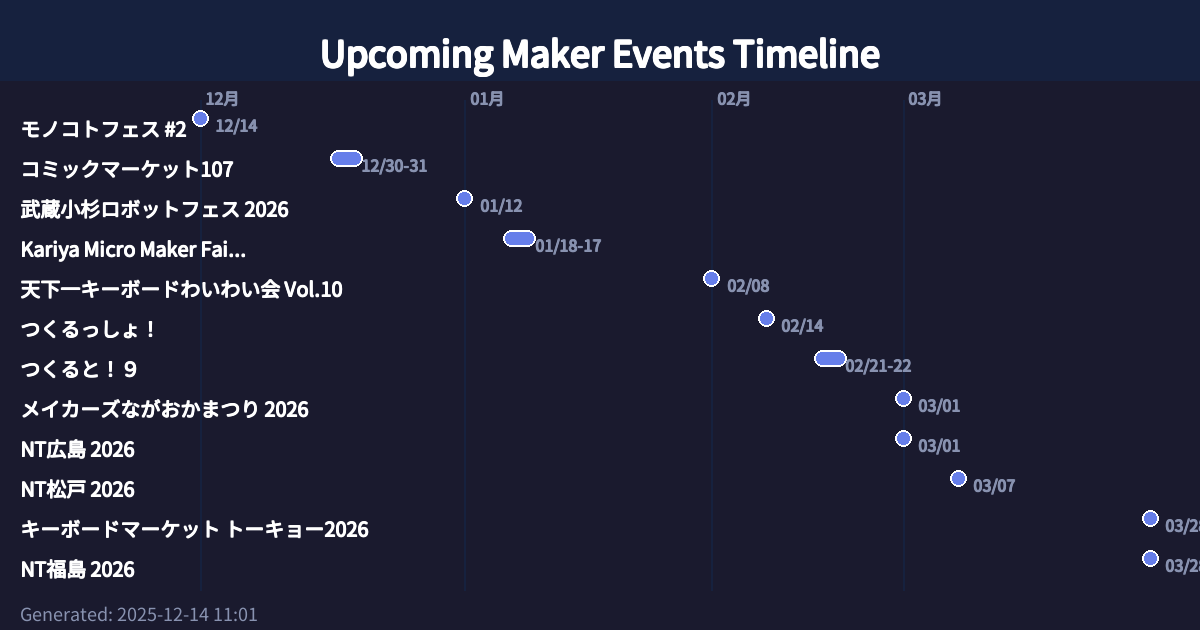
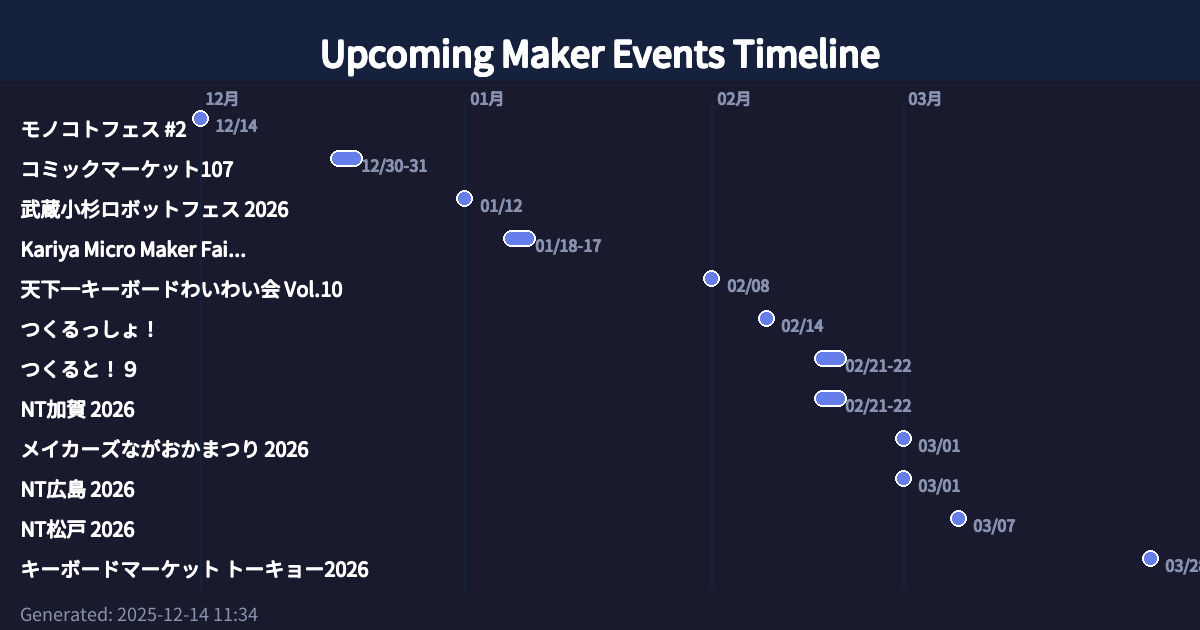
サイト更新
🤖 自動更新 - 2025-12-14 11:34:10 JST

Generated with [Claude Code](https://claude.ai/code)

diff --git a/index.html b/index.html
@@ -7,7 +7,7 @@
     
     <!-- OGP Meta Tags for Social Media Sharing -->
     <meta property="og:title" content="Upcoming Maker Events | 今後のメイカーイベント">
-    <meta property="og:description" content="世界中のメイカーイベント情報を一覧で確認。Maker Faire、NT、技術書典など18件のイベント情報を掲載。 | Discover upcoming maker events worldwide including Maker Faires, technical conferences, and maker gatherings.">
+    <meta property="og:description" content="世界中のメイカーイベント情報を一覧で確認。Maker Faire、NT、技術書典など20件のイベント情報を掲載。 | Discover upcoming maker events worldwide including Maker Faires, technical conferences, and maker gatherings.">
     <meta property="og:type" content="website">
     <meta property="og:url" content="https://shinichi-ohki.github.io/maker_event/">
     <meta property="og:image" content="https://shinichi-ohki.github.io/maker_event/ogp_image.png">
@@ -17,11 +17,11 @@
     <!-- Twitter Card -->
     <meta name="twitter:card" content="summary_large_image">
     <meta name="twitter:title" content="Upcoming Maker Events | 今後のメイカーイベント">
-    <meta name="twitter:description" content="世界中のメイカーイベント情報を一覧で確認。18件のイベント情報を掲載。">
+    <meta name="twitter:description" content="世界中のメイカーイベント情報を一覧で確認。20件のイベント情報を掲載。">
     <meta name="twitter:image" content="https://shinichi-ohki.github.io/maker_event/ogp_image.png">
     
     <!-- Standard Meta Tags -->
-    <meta name="description" content="世界中のメイカーイベント情報を一覧で確認。Maker Faire、NT、技術書典など18件のイベント情報を掲載。">
+    <meta name="description" content="世界中のメイカーイベント情報を一覧で確認。Maker Faire、NT、技術書典など20件のイベント情報を掲載。">
     <meta name="keywords" content="Maker Faire, メイカーイベント, 技術イベント, NT, 技術書典, DIY, ハードウェア, プログラミング">
     <meta name="author" content="Maker Events Team">
     <style>
@@ -338,6 +338,25 @@
                 <div class="event-card">
                     <div class="event-image">
                         
+                            🛠
+                        
+                    </div>
+                    <div class="event-content">
+                        
+                        <div class="event-date">2026年02月21日〜22日</div>
+                        
+                        <h3 class="event-title">NT加賀 2026</h3>
+                        <p class="event-location">アビオシティ加賀, 加賀(石川), Japan</p>
+                        
+                        
+                        <a href="https://wiki.nicotech.jp/nico_tech/?NT%E5%8A%A0%E8%B3%802026" class="event-link" target="_blank">詳細を見る</a>
+                        
+                    </div>
+                </div>
+                
+                <div class="event-card">
+                    <div class="event-image">
+                        
                             <img src="../../images/og_img.jpg" alt="メイカーズながおかまつり 2026" style="width: 100%; height: 100%; object-fit: cover;">
                         
                     </div>
@@ -445,6 +464,27 @@
                         
                         
                         <a href="https://coolestprojects2026.coderdojo.jp/" class="event-link" target="_blank">詳細を見る</a>
+                        
+                    </div>
+                </div>
+                
+                <div class="event-card">
+                    <div class="event-image">
+                        
+                            🛠
+                        
+                    </div>
+                    <div class="event-content">
+                        
+                        <div class="event-date">2026年05月04日</div>
+                        
+                        <h3 class="event-title">NT函館mini 2026</h3>
+                        <p class="event-location">函館市地域交流まちづくりセンター 1F・2F, 函館, Japan</p>
+                        
+                        <p class="event-description">※3日は準備・出展者交流日、4日が一般公開日</p>
+                        
+                        
+                        <a href="https://wiki.nicotech.jp/nico_tech/?NT%E5%87%BD%E9%A4%A8mini2026" class="event-link" target="_blank">詳細を見る</a>
                         
                     </div>
                 </div>
@@ -564,7 +604,7 @@
     </div>
     
     <footer style="text-align: center; margin-top: 1rem; padding: 1rem; color: #666; font-size: 0.8rem; border-top: 1px solid #e0e0e0;">
-        <p>Last updated: 2025-12-14 11:01 JST</p>
+        <p>Last updated: 2025-12-14 11:34 JST</p>
     </footer>
 </body>
 </html>
